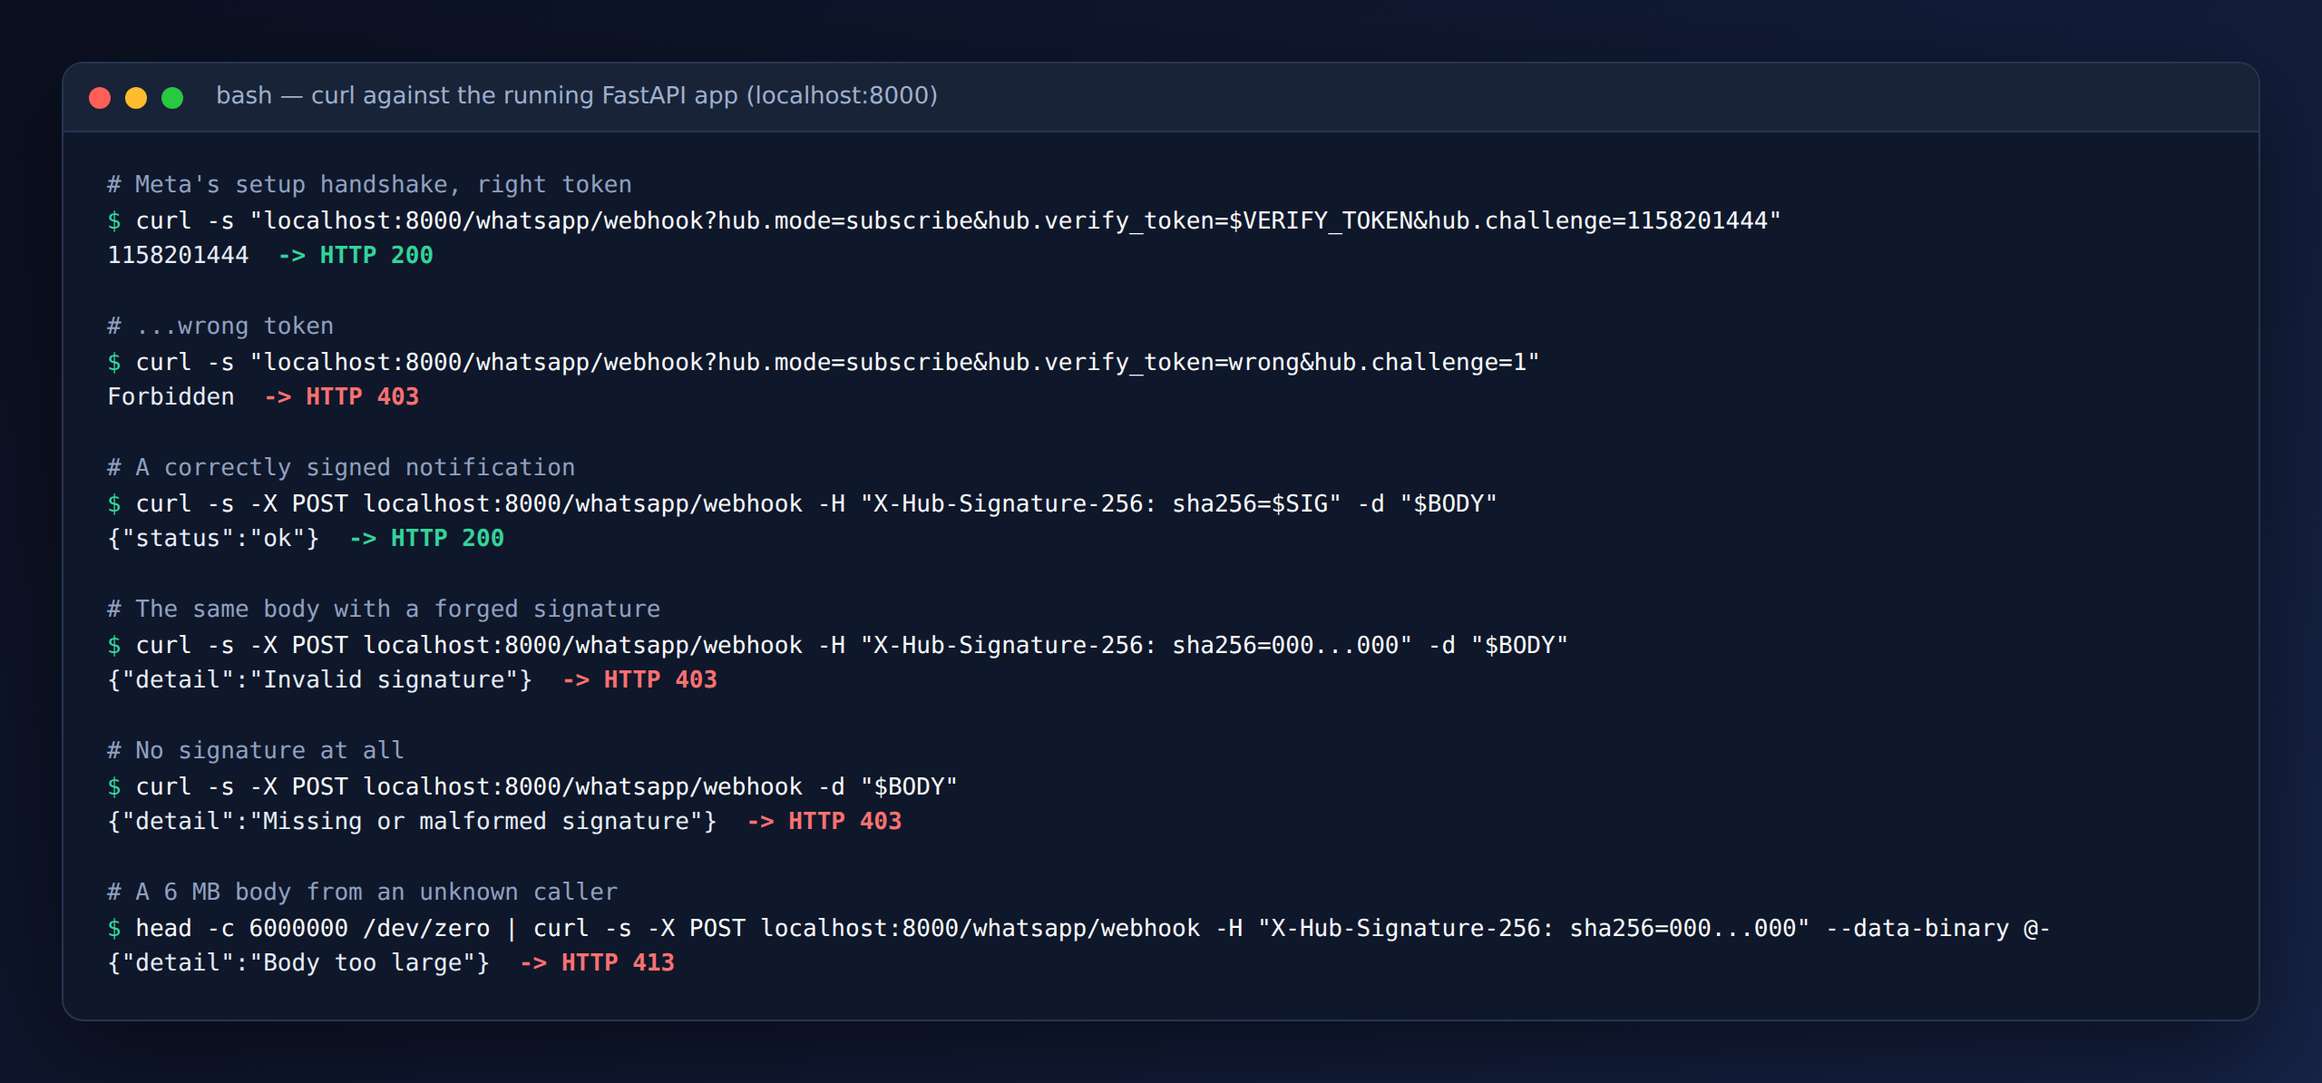
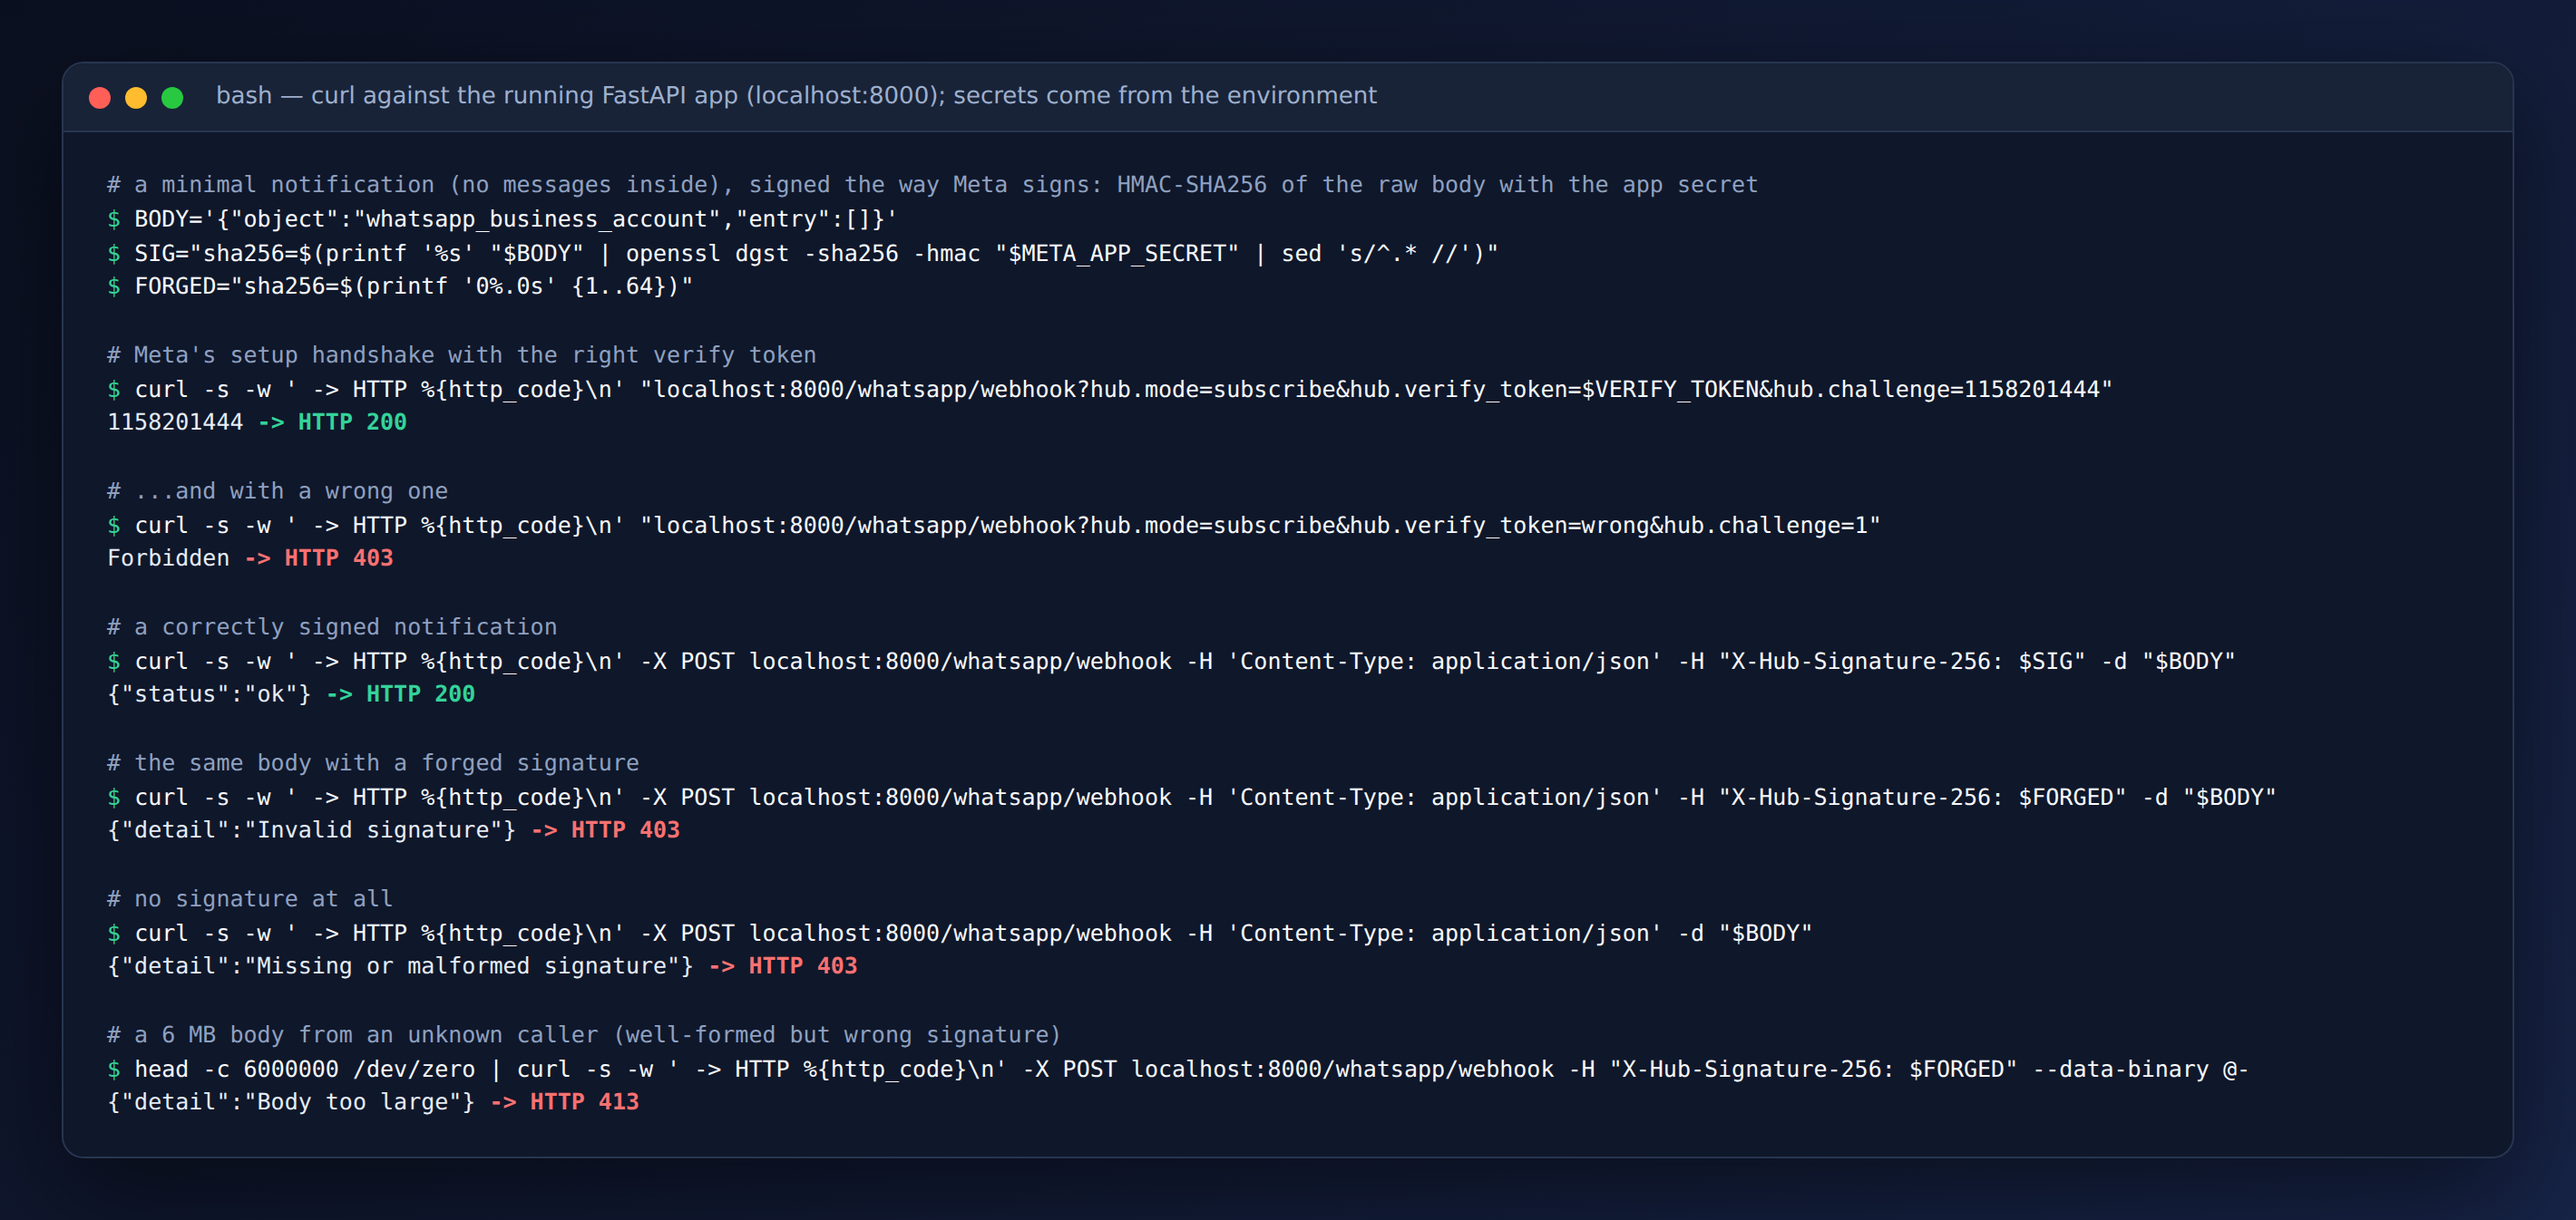
Fix portfolio labelling after review; test the Gemini call path offline
Review of the portfolio material found overstatements and drift, all fixed:
- the GIF banner and gallery said "app code is real", but extract_invoice
  itself was replaced by a stub; say so plainly on every frame and in the docs,
  and note that the live path has not been run
- the final GIF frame stated live behaviour as fact; reworded to "not yet run live"
- steps that were answered by stand-ins are now labelled as such
- image 04 now shows the exact commands that ran (FORGED signature written out
  as a variable, -w flag, Content-Type), and image 03 keeps the real
  "71 passed, 1 warning" footer with a large pass-count headline
- frame 3 and 5 now come straight from the captured request and model dump
  (recipient_type present, floats as the code prints them); frame 1 includes the
  message id; fixed card height, contrast, timings and the wrapped reply bubble
- architecture callouts reworded to match the code (403/413, 5 MiB, in-memory dedupe)
- README reply example matches the real reply text

Tests: add offline tests for extractor.extract_invoice using a fake Gemini
client (file, prompt, schema, temperature and model sent; invalid replies
rejected). 71 tests now; each new check was verified against a broken copy.

Claude-Session: https://claude.ai/code/session_01G2ni39qeW6vqyfHtpDGThh

diff --git a/tests/test_extractor.py b/tests/test_extractor.py
@@ -1,6 +1,11 @@
+from types import SimpleNamespace
+
 import pytest
 
+from app import extractor
+from app.config import get_settings
 from app.extractor import sniff_mime
+from app.models import Invoice
 
 
 @pytest.mark.parametrize("data, expected", [
@@ -18,3 +23,54 @@ from app.extractor import sniff_mime
 ])
 def test_sniff_mime(data, expected):
     assert sniff_mime(data) == expected
+
+
+class FakeGemini:
+    """Stands in for google.genai.Client: records what extract_invoice sends and returns a canned reply."""
+
+    def __init__(self, parsed):
+        self.parsed = parsed
+        self.calls = []
+        self.api_keys = []
+
+    def client(self, api_key=None):
+        self.api_keys.append(api_key)
+        return SimpleNamespace(models=SimpleNamespace(generate_content=self.generate_content))
+
+    def generate_content(self, model, contents, config):
+        self.calls.append({"model": model, "contents": contents, "config": config})
+        return SimpleNamespace(parsed=self.parsed)
+
+
+@pytest.fixture
+def gemini_env(monkeypatch):
+    monkeypatch.setenv("GEMINI_API_KEY", "test-key")
+    monkeypatch.setenv("GEMINI_MODEL", "test-model")
+    get_settings.cache_clear()
+    yield
+    get_settings.cache_clear()
+
+
+def test_extract_invoice_sends_the_file_prompt_and_schema_to_gemini(monkeypatch, gemini_env):
+    invoice = Invoice(invoice_number="INV-1", total=10)
+    fake = FakeGemini(invoice)
+    monkeypatch.setattr(extractor.genai, "Client", fake.client)
+
+    assert extractor.extract_invoice(b"%PDF-1.4 bytes", "application/pdf") is invoice
+
+    assert fake.api_keys == ["test-key"]
+    (call,) = fake.calls
+    assert call["model"] == "test-model"
+    part, prompt = call["contents"]
+    assert part.inline_data.data == b"%PDF-1.4 bytes" and part.inline_data.mime_type == "application/pdf"
+    assert prompt == extractor.PROMPT
+    assert call["config"].response_mime_type == "application/json"
+    assert call["config"].response_schema is Invoice
+    assert call["config"].temperature == 0
+
+
+@pytest.mark.parametrize("parsed", [None, {"invoice_number": "INV-1"}])
+def test_extract_invoice_rejects_a_reply_that_is_not_a_valid_invoice(monkeypatch, gemini_env, parsed):
+    monkeypatch.setattr(extractor.genai, "Client", FakeGemini(parsed).client)
+    with pytest.raises(ValueError):
+        extractor.extract_invoice(b"%PDF-1.4", "application/pdf")

diff --git a/docs/portfolio/README.md b/docs/portfolio/README.md
@@ -7,14 +7,20 @@ session: those need the owner's own accounts and are listed in [Still to capture
 |---|---|---|
 | `01-architecture.png` | How the pieces fit together | Diagram |
 | `02-sample-invoice.png` | The test invoice (`samples/sample_invoice.pdf`) and the fields extracted from it | The real file, rendered |
-| `03-tests-passing.png` | `pytest -v`: all 68 offline tests | Real terminal output |
-| `04-webhook-security.png` | `curl` against the running app: setup handshake, valid and forged signatures, oversized body | Real requests to the real server |
+| `03-tests-passing.png` | `pytest -v`: all 71 offline tests | Real test run, re-typeset in two columns (the header lines and the warnings summary are trimmed) |
+| `04-webhook-security.png` | `curl` against the running app: setup handshake, valid and forged signatures, oversized body | Real requests to the real server. The commands shown are the exact commands that ran; secrets come from the environment. |
 | `05-sheet-rows.png` | The rows `app/sheets.py` writes to the `Invoices` and `LineItems` tabs | Real output of the real code against an in-memory stand-in. **Not a Google Sheets screenshot.** |
-| `demo-simulated.gif` | The whole pipeline, step by step, with the real data at each step | The real app code, with Meta's servers, Gemini and Google Sheets replaced by stand-ins. **Not a live run**, and labelled as such on every frame. |
+| `demo-simulated.gif` | The whole pipeline, step by step | The real code in `app/` handling a scripted message, with three stand-ins (below). **Not a live run**, and labelled as such on every frame. |
 
-The stand-ins in the GIF: Meta's Graph API is an in-process fake that serves the sample PDF and accepts replies,
-Gemini returns the sample invoice's known values, and Google Sheets is an in-memory fake. Everything else (signature check,
-request building, media download, file-type detection, sanity check, sheet rows, reply text) is the code in `app/`.
+**What is real and what is scripted in the GIF.** Real: the signature check, the request and response handling, the
+Graph API request building, the media download, file-type detection, the total check, the sheet rows and the reply text.
+Scripted or replaced: the incoming message (built locally in Meta's format); Meta's servers (an in-process fake that serves
+the sample PDF and accepts replies); Google Sheets (an in-memory fake); and **Gemini: `extractor.extract_invoice` itself is
+replaced by a function that returns the sample invoice's known values**, so the Gemini call code does not run in the GIF.
+Offline, that call is only covered by tests against a fake Gemini client (they check the file, prompt, schema and model
+that are sent, not what the real service returns).
+
+**The live path has not been run yet**: not against a live Meta account, a Gemini key, or a Google Sheet.
 
 ## Still to capture (live screenshots)
 

diff --git a/README.md b/README.md
@@ -6,7 +6,7 @@ Prototype: send an invoice PDF to a WhatsApp number, Gemini reads it, and the da
 Phone (WhatsApp) --PDF--> Meta WhatsApp Cloud API --webhook (JSON)--> FastAPI (/whatsapp/webhook)
                                                                         1. check the X-Hub-Signature-256 signature, answer 200 at once
                                                                         2. background: download PDF from Meta -> Gemini -> Google Sheet
-                                                                        3. WhatsApp reply: "Saved invoice INV-... | Acme | USD 1996.5"
+                                                                        3. WhatsApp reply: "✅ Saved invoice INV-2026-0042 · Acme Web Studio Ltd · USD 1996.5"
 ```
 
 It extracts: invoice number, invoice date, due date, supplier name and tax ID, customer name, currency,
@@ -19,8 +19,9 @@ If `subtotal + tax` does not equal `total`, the row gets a warning and the Whats
 
 ![Local simulation of the whole pipeline](docs/portfolio/demo-simulated.gif)
 
-*The GIF is a local simulation: the app code is real, but Meta's servers, Gemini and Google Sheets are replaced by
-stand-ins. More images, and what each one is, in [docs/portfolio](docs/portfolio/README.md).*
+*The GIF is a local simulation, not a live run: Meta's servers, Gemini and Google Sheets are replaced by stand-ins (the
+Gemini call itself is replaced by fixed values). More images, and what each one is, in
+[docs/portfolio](docs/portfolio/README.md).*
 
 ## Setup
 
@@ -127,5 +128,7 @@ The Gemini model is set by `GEMINI_MODEL` (default `gemini-3.6-flash`), the Grap
 - Meta announced that replies inside the 24-hour window become billable per message after a monthly free allowance
   from 2026-10-01. I could not confirm whether that applies to test numbers.
 - Going beyond the test number needs a real business phone number and Meta business verification.
+- The Gemini call is only tested against a fake client (it checks how the app calls Gemini: file, prompt, schema, model),
+  never against the real service, so extraction quality on real invoices is unknown until you try it.
 - Written from Meta's documentation as summarised by secondary sources; Meta's own pages could not be opened while
   building this, and it has not yet been run against a live Meta account. Treat the first live run as the real test.
